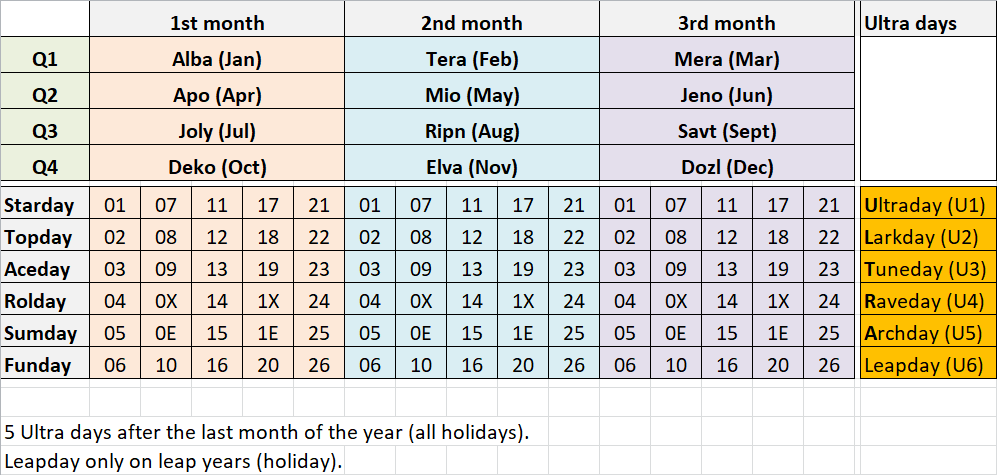
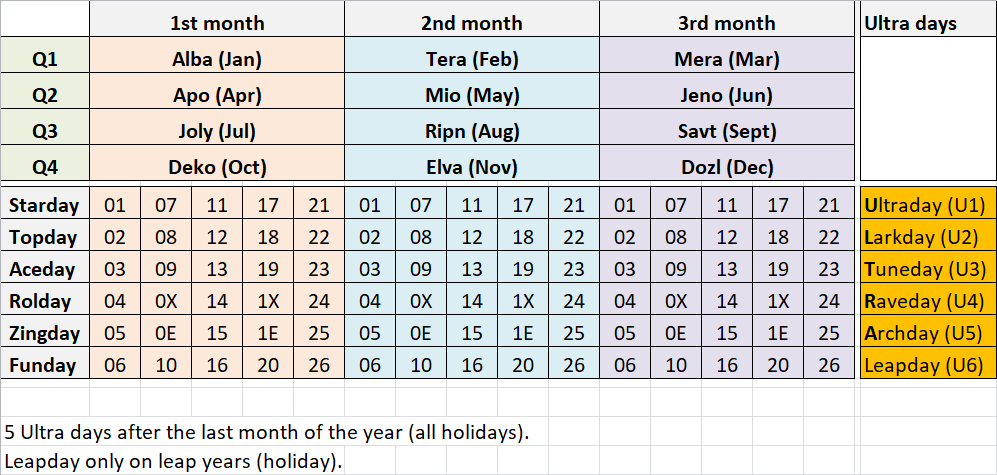
Replace Sumday with Zingday.

Changed region(s): [[0.0, 0.4126, 0.0933, 0.5895], [0.0, 0.6779, 0.0933, 0.7958], [0.0, 0.6189, 0.0933, 0.6484]]

diff --git a/README.md b/README.md
@@ -84,10 +84,10 @@ Here are the day names of our 6-day week I developed:
 * Topday
 * Aceday
 * Rolday
-* Sumday -> P.S. In retrospect I realized that Sumday has the exact same pronunciation as "some day". So, not ideal. TODO: Replace that name. Possible candidates: Stepday | Sens(e)day | Shap(e)day
+* Zingday
 * Funday
 
-I designed the names so that the initials of the first 5 days spell out STARS. Rolday incorporates the meanings of both the word "role" as well as "roll" (with emphasis on the former). The meanings of the other days are self-explanatory. 
+I designed the names so that the initials of the first 5 days spell out STARZ. Rolday incorporates the meanings of both the word "role" as well as "roll" (with emphasis on the former). The meanings of the other days are self-explanatory. 
 
 The name of every day is meant to inspire and/or boost the productivity spirit. One of our long-term aims in Star City is to automate 100% of all the idiotic, boring and tedious jobs. All manual labor shall be automated. So, eventually, we'll only have jobs left that require creativity and thinking but not manual labor. 
 
@@ -150,7 +150,7 @@ And that affords us this beautiful simplicity, symmetry and astonishing regulari
 
 Starlendar in decimal:
 
- ![Starlendar](./assets/starlendar.png)
+ ![Starlendar](./assets/starlendar-in-decimal.png)
 
 Starlendar in **dozenal**:  
 ([dozenal will be the primary numeral system in Star City](https://github.com/WebDevBooster/dozenal))
